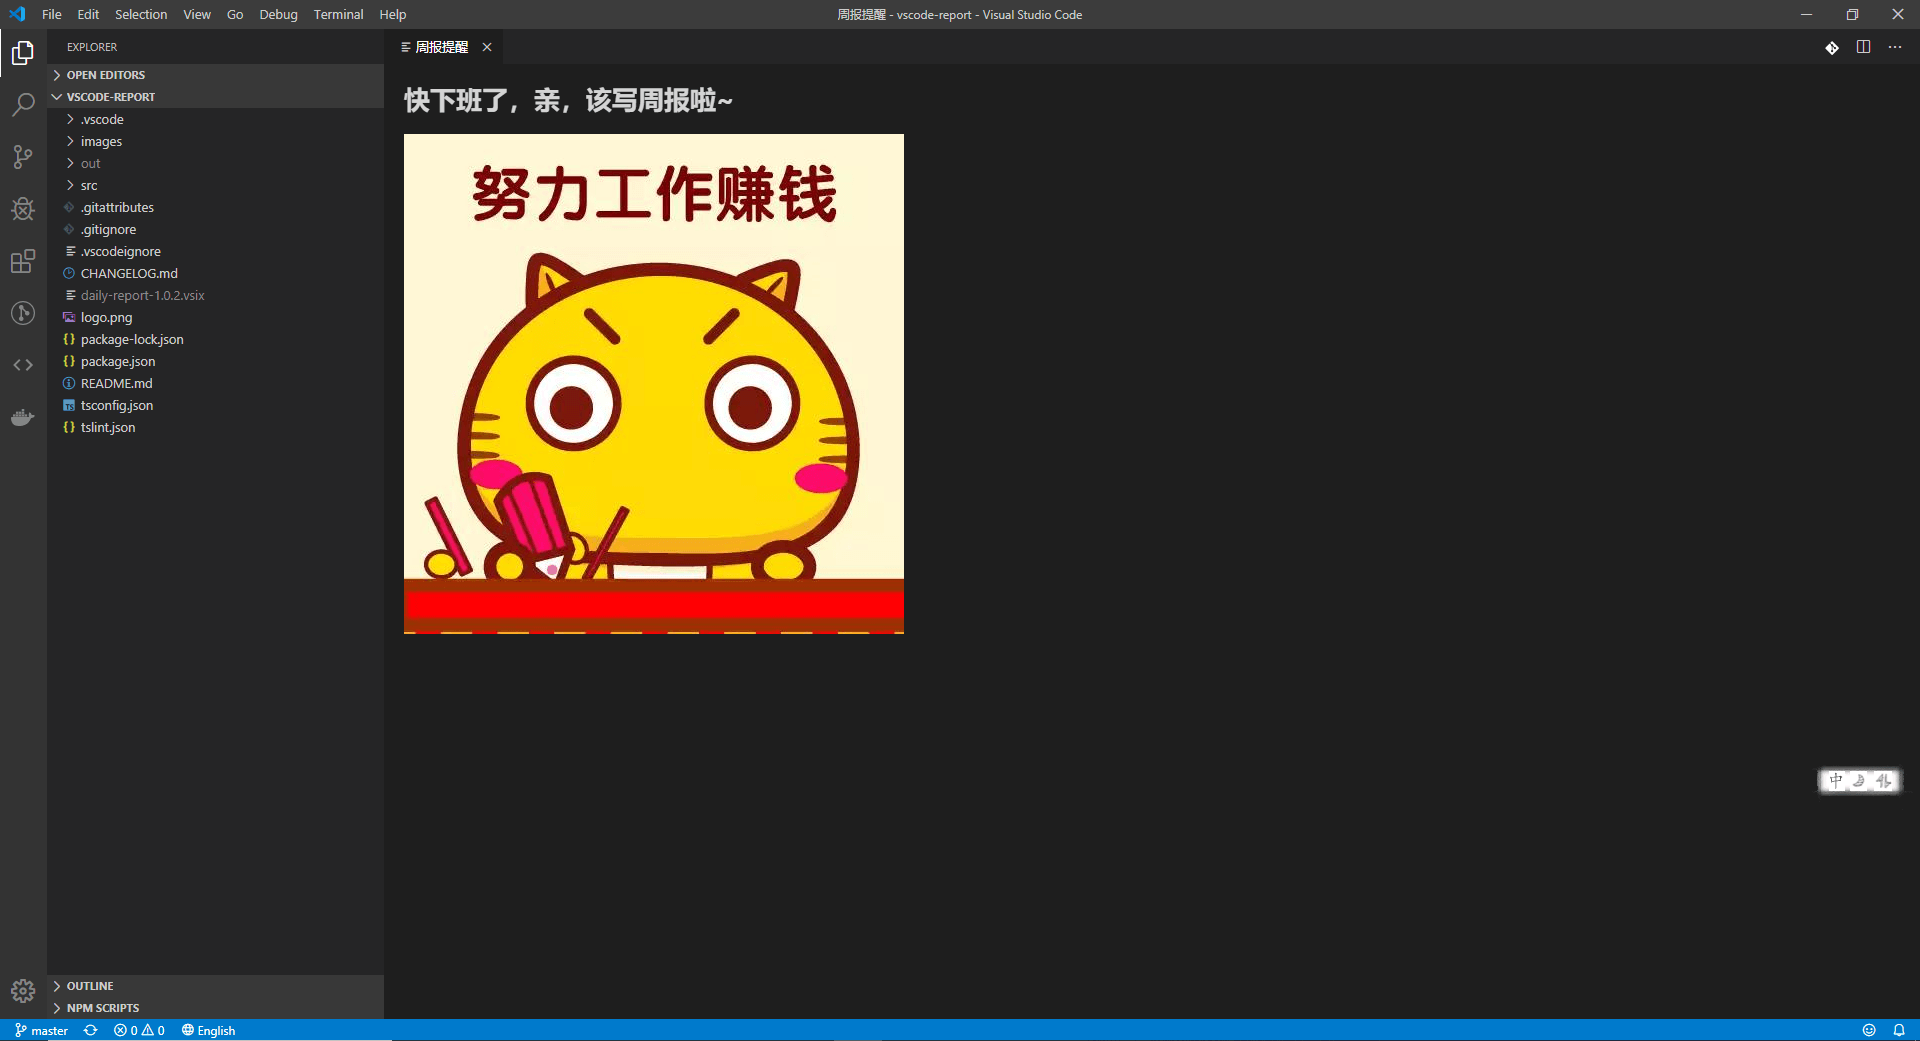
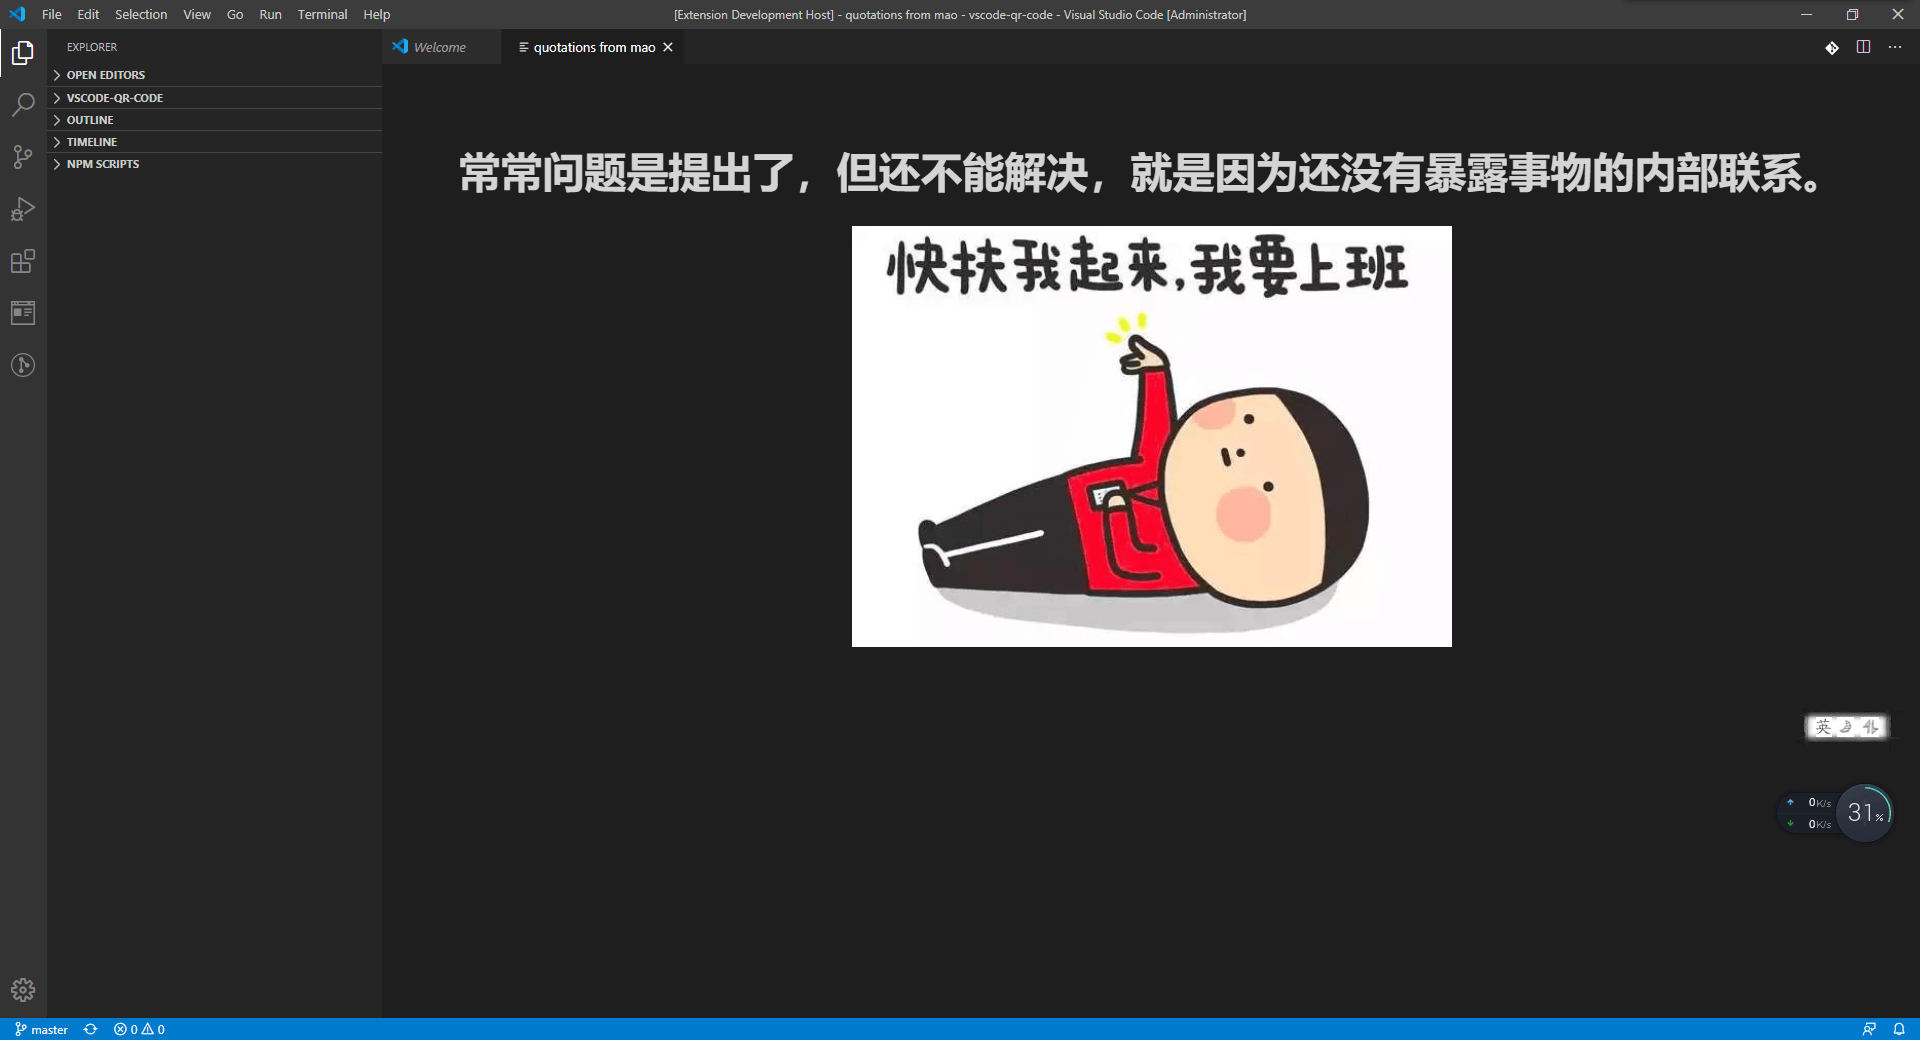
fix: 修改样式

diff --git a/src/quotations.ts b/src/quotations.ts
@@ -5,4 +5,23 @@ export default [
   '好好学习，天天向上。',
   '孩儿立志出乡关，学不成名誓不还。',
   '问苍茫大地，谁主沉浮？',
+  '苟有恒，何必三更起五更眠；最无益，只怕一日曝十日寒。',
+  '谦虚使人进步，骄傲使人落后，我们应当永远记住这个真理。',
+  '常常问题是提出了，但还不能解决，就是因为还没有暴露事物的内部联系。',
+  '在路线问题上没有调和的余地。',
+  '待人以诚而去其诈，待人以宽而去其隘。',
+  '思想这个阵地，你不占领就被别人占领。',
+  '多少事，从来急，天地转，光阴迫，一万年太久，只争朝夕。',
+  '抓住主要矛盾其他问题就可以迎刃而解了。',
+  '养育深恩，春晖朝霭。报之何时，精禽大海。',
+  '敌进我退，敌驻我扰，敌疲我打，敌退我追。',
+  '帝国主义是纸老虎。',
+  '没有调查就没有发言权。',
+  '你办事，我放心。',
+  '人活着总需要一点精神! ',
+  '前途是光明的，道路是曲折的。',
+  '世上无难事只要肯登攀。',
+  '为人民服务 ！',
+  '为有牺牲多壮志，敢教日月换新天。',
+  '一个人能力有大小，但只要有这点精神，就是一个高尚的人，一个纯粹的人，一个有道德的人，一个脱离了低级趣味的人，一个有益于人民的人。',
 ]

diff --git a/src/reminderView.ts b/src/reminderView.ts
@@ -40,9 +40,9 @@ export class ReminderView {
             <meta name="viewport" content="width=device-width, initial-scale=1.0">
             <title>${documentTitle}</title>
         </head>
-        <body>
-            <div><h1>${title}</h1></div>
-            <div><img src="${imagePath}"></div>
+        <body style="display: flex;flex-direction: column;justify-content: center;align-items: center;margin-top: 50px">
+            <div><h1 style="font-size: 42px;text-align: center;">${title}</h1></div>
+            <div><img src="${imagePath}" style="max-width: 400px;margin-top: 50px;"></div>
         </body>
         </html>`
     return html

diff --git a/README.md b/README.md
@@ -1,1 +1,5 @@
-# Quotations from Mao
+# vscode-mao
+
+Quotations from Mao will show when you open vacode.
+
+![image](./images/usage.png)
